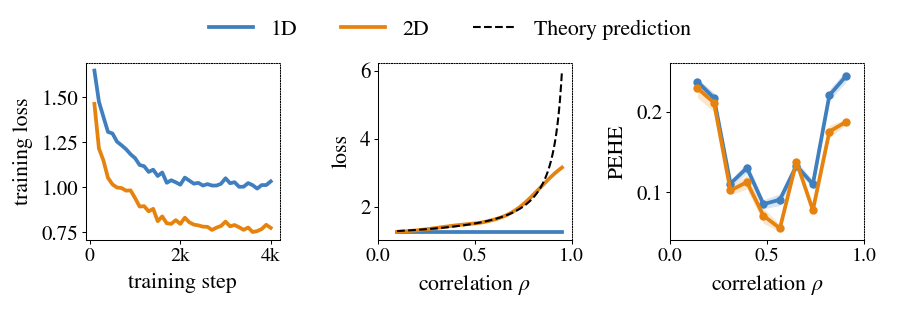
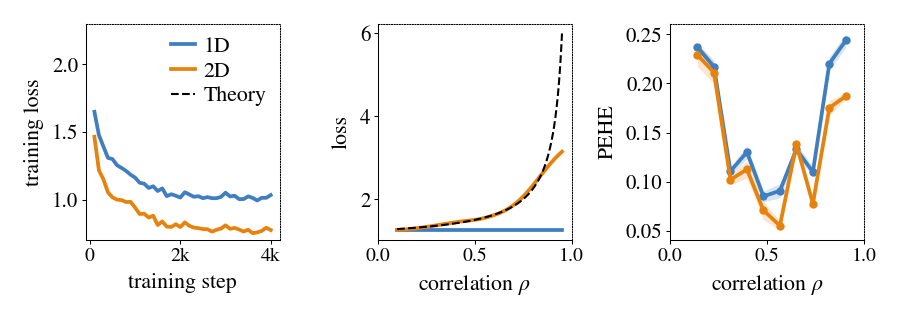
Toy figure: legend in the first panel, Theory label
Claude-Session: https://claude.ai/code/session_01AZV2d6TbWGuV4cMQVAXpNa

diff --git a/revision/theory/loss_geometry/fig_sim5_link.py b/revision/theory/loss_geometry/fig_sim5_link.py
@@ -29,7 +29,7 @@ rh = np.array([get(s, "joint")["rho_hat"] for s in SEEDS]).mean(0)
 c = 0.25                                   # error part of the 1D loss for a prediction whose effect is wrong by 1
 ax[0].plot(rho, 1 + c * np.ones_like(rho), color=B1, lw=1.8, label="1D")
 ax[0].plot(rho, 1 + c / (1 - rh), color=B2, lw=1.8, label="2D")
-ax[0].plot(rho, 1 + c / (1 - rho), "--", color="k", lw=1.0, label="Theory prediction")
+ax[0].plot(rho, 1 + c / (1 - rho), "--", color="k", lw=1.0, label="Theory")
 ax[0].set(xlabel=r"correlation $\rho$", ylabel="loss", xlim=(0, 1), xticks=[0, 0.5, 1])
 
 edges = np.linspace(rho[0], rho[-1], 11); mid = (edges[:-1] + edges[1:]) / 2
@@ -43,6 +43,7 @@ ax[1].set(xlabel=r"correlation $\rho$", ylabel="PEHE", xlim=(0, 1), xticks=[0, 0
 for a in fig.axes:
     PS.frame(a); a.tick_params(axis="y", length=2, width=0.5)
 h, l = fig.axes[1].get_legend_handles_labels()
-fig.legend(h, l, loc="upper center", ncol=3, frameon=False, bbox_to_anchor=(0.5, 1.0))
-fig.tight_layout(w_pad=0.6, rect=(0, 0, 1, 0.88))
+fig.axes[0].legend(h, l, loc="upper right", frameon=False, handlelength=1.1, handletextpad=0.4, labelspacing=0.2, borderaxespad=0.2)
+fig.axes[0].set_ylim(0.7, 2.3); fig.axes[0].set_yticks([1, 1.5, 2])
+fig.tight_layout(w_pad=0.6)
 for ext in ("png", "pdf"): fig.savefig(os.path.join(OUT, f"sim5_link.{ext}"), dpi=150)
